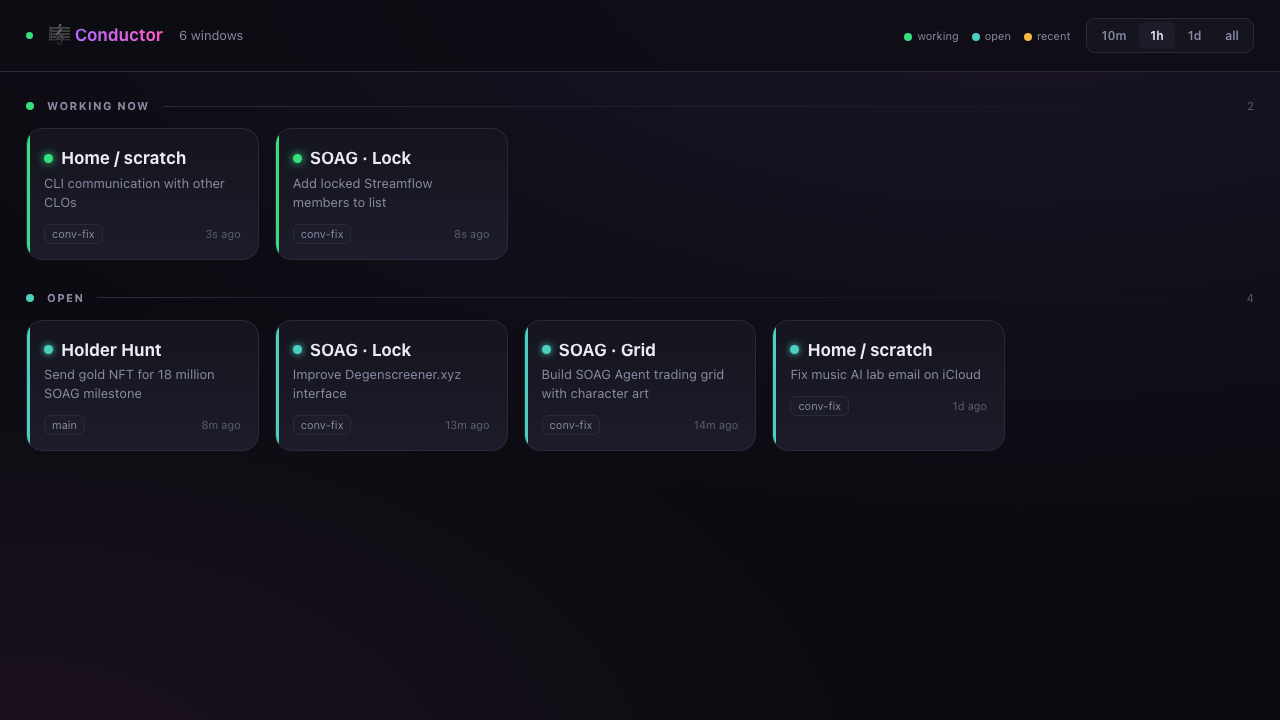
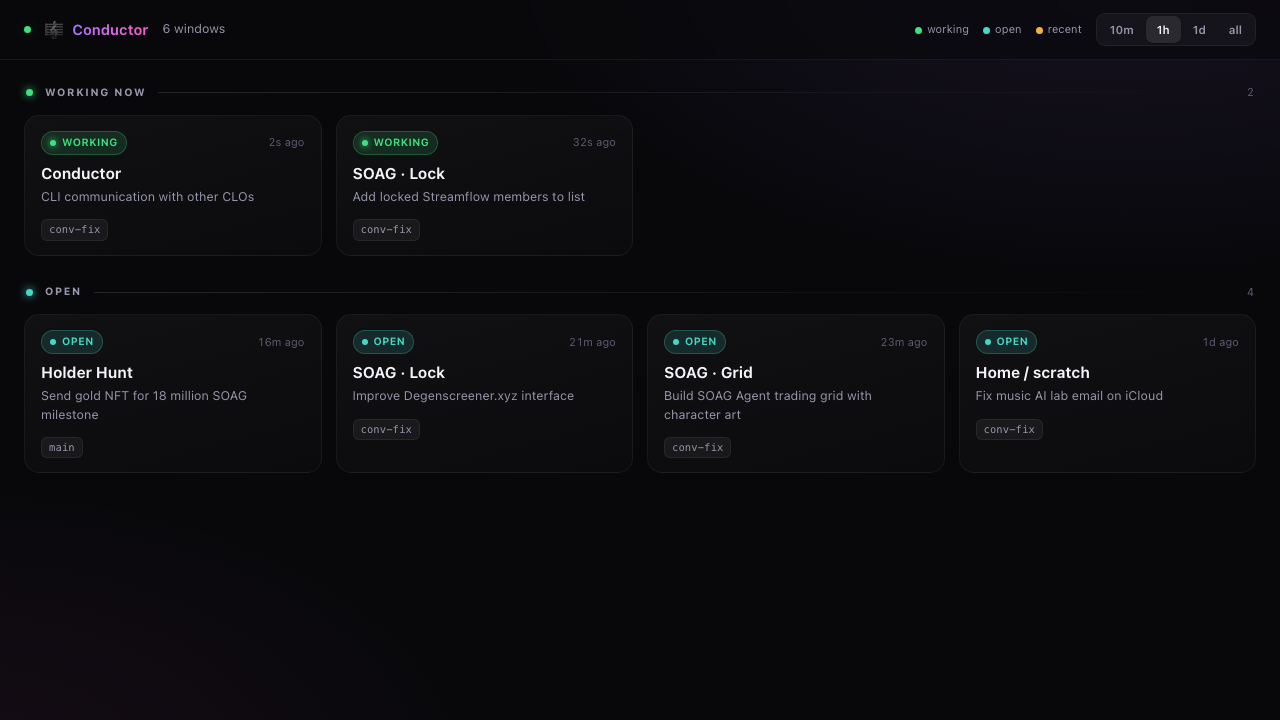
cockpit: sleek redesign — status pills, hairline borders, mono accents
Modern dark dashboard pass (Linear/Vercel-grade): per-status pills replace bare dots,
monospace branch chips + session ids, gradient hover ring tinted by status, glowing
section markers, refined type scale & spacing, polished modal timeline. Flicker-free
refresh (repaint only when data changes). Updated README screenshot.

diff --git a/server.js b/server.js
@@ -3,7 +3,7 @@
 
 // Conductor daemon — serves a live, glanceable web cockpit of your Claude Code sessions.
 // Read-only. Zero dependencies (node:http only). The page polls /api/sessions and
-// re-renders cards; click a card for full detail.
+// re-renders only when the data changes; click a card for full detail.
 //
 //   conductor-cockpit                 start on :7591, open browser, 60-min window
 //   conductor-cockpit --port 8080
@@ -28,99 +28,121 @@ const PAGE = /* html */ `<!doctype html>
 <head>
 <meta charset="utf-8">
 <meta name="viewport" content="width=device-width, initial-scale=1">
-<title>🎼 Conductor</title>
+<title>Conductor</title>
 <style>
   :root {
-    --bg:#0b0b11; --panel:#15151f; --panel2:#1c1c2a; --line:#2a2a3d;
-    --txt:#ececf4; --mut:#8a8aa3; --dim:#5d5d75;
-    --active:#36e07f; --open:#4bd0c0; --recent:#f5b942; --idle:#6a6a85;
-    --accent:#b06cff; --accent2:#ff5cc8;
+    --bg:#08080b; --bg2:#0b0b10;
+    --line:rgba(255,255,255,.06); --line2:rgba(255,255,255,.12);
+    --txt:#f3f3f8; --mut:#9696ab; --dim:#5c5c72;
+    --active:#3ee07f; --open:#46d8c6; --recent:#f5b13f; --idle:#6a6a85;
+    --accent:#a974ff; --accent2:#ff5cc8;
+    --mono:ui-monospace,"SF Mono","JetBrains Mono",Menlo,monospace;
+    --sans:ui-sans-serif,-apple-system,"SF Pro Text",Inter,system-ui,sans-serif;
   }
   * { box-sizing:border-box; }
+  html { color-scheme:dark; }
   body {
     margin:0; background:var(--bg); color:var(--txt);
-    font:14px/1.45 ui-sans-serif,-apple-system,"SF Pro Text",Inter,system-ui,sans-serif;
-    -webkit-font-smoothing:antialiased;
-    background-image:radial-gradient(1200px 600px at 80% -10%, rgba(176,108,255,.10), transparent),
-                     radial-gradient(900px 500px at 0% 110%, rgba(255,92,200,.07), transparent);
+    font:13.5px/1.5 var(--sans); -webkit-font-smoothing:antialiased; letter-spacing:.1px;
     min-height:100vh;
+    background-image:
+      radial-gradient(900px 480px at 88% -8%, rgba(169,116,255,.10), transparent 70%),
+      radial-gradient(760px 420px at -4% 108%, rgba(255,92,200,.06), transparent 70%);
   }
+  ::selection { background:rgba(169,116,255,.3); }
+  /* scrollbar */
+  ::-webkit-scrollbar { width:10px; height:10px; }
+  ::-webkit-scrollbar-thumb { background:#23232f; border-radius:6px; border:2px solid var(--bg); }
+
   header {
-    display:flex; align-items:center; gap:16px; padding:18px 26px; position:sticky; top:0;
-    backdrop-filter:blur(10px); background:rgba(11,11,17,.7); border-bottom:1px solid var(--line); z-index:10;
+    display:flex; align-items:center; gap:14px; padding:13px 24px; position:sticky; top:0; z-index:20;
+    background:rgba(8,8,11,.72); backdrop-filter:blur(14px) saturate(1.2);
+    border-bottom:1px solid var(--line);
   }
-  h1 { font-size:17px; margin:0; letter-spacing:.3px; font-weight:650; }
-  h1 .g { background:linear-gradient(90deg,var(--accent),var(--accent2)); -webkit-background-clip:text; background-clip:text; color:transparent; }
-  .count { color:var(--mut); font-size:13px; }
+  .brand { display:flex; align-items:center; gap:9px; font-size:14.5px; font-weight:640; letter-spacing:.2px; }
+  .brand .mk { background:linear-gradient(92deg,var(--accent),var(--accent2)); -webkit-background-clip:text; background-clip:text; color:transparent; }
+  .live { width:7px; height:7px; border-radius:50%; background:var(--active); box-shadow:0 0 0 0 var(--active); animation:pulse 2.4s infinite; }
+  @keyframes pulse { 0%{box-shadow:0 0 0 0 rgba(62,224,127,.45);} 70%{box-shadow:0 0 0 8px rgba(62,224,127,0);} 100%{box-shadow:0 0 0 0 rgba(62,224,127,0);} }
+  .count { color:var(--mut); font-size:12.5px; font-variant-numeric:tabular-nums; }
   .spacer { flex:1; }
-  .seg { display:flex; gap:2px; background:var(--panel); border:1px solid var(--line); border-radius:9px; padding:3px; }
-  .seg button {
-    border:0; background:transparent; color:var(--mut); font:inherit; font-size:12px; font-weight:600;
-    padding:5px 11px; border-radius:6px; cursor:pointer;
-  }
-  .seg button.on { background:var(--panel2); color:var(--txt); }
-  .pulse { width:7px; height:7px; border-radius:50%; background:var(--active); box-shadow:0 0 0 0 var(--active); animation:p 2s infinite; }
-  @keyframes p { 0%{box-shadow:0 0 0 0 rgba(54,224,127,.5);} 70%{box-shadow:0 0 0 7px rgba(54,224,127,0);} 100%{box-shadow:0 0 0 0 rgba(54,224,127,0);} }
-  main { padding:20px 26px 60px; }
-  .section-head { display:flex; align-items:center; gap:13px; margin:30px 0 14px; }
-  .section-head:first-child { margin-top:6px; }
-  .section-head .sdot { width:8px; height:8px; border-radius:50%; flex:none; }
-  .section-head .stitle { font-size:11px; font-weight:750; letter-spacing:1.4px; text-transform:uppercase; color:var(--mut); white-space:nowrap; }
-  .section-head .rule { flex:1; height:1px; background:linear-gradient(90deg,var(--line),transparent); }
-  .section-head .scount { font-size:11px; color:var(--dim); flex:none; }
-  .grid { display:grid; grid-template-columns:repeat(auto-fill,minmax(230px,1fr)); gap:16px; }
+  .legend { display:flex; gap:14px; font-size:11px; color:var(--mut); }
+  .legend i { width:7px; height:7px; border-radius:50%; display:inline-block; margin-right:5px; vertical-align:middle; }
+  .seg { display:flex; gap:1px; background:rgba(255,255,255,.04); border:1px solid var(--line); border-radius:9px; padding:2px; }
+  .seg button { border:0; background:transparent; color:var(--mut); font:inherit; font-size:11.5px; font-weight:600; padding:5px 11px; border-radius:7px; cursor:pointer; transition:.12s; }
+  .seg button:hover { color:var(--txt); }
+  .seg button.on { background:rgba(255,255,255,.09); color:var(--txt); box-shadow:0 1px 2px rgba(0,0,0,.3); }
+
+  main { padding:14px 24px 64px; max-width:1500px; margin:0 auto; }
+  .section-head { display:flex; align-items:center; gap:12px; margin:28px 2px 14px; }
+  .section-head:first-child { margin-top:10px; }
+  .section-head .sdot { width:7px; height:7px; border-radius:50%; flex:none; box-shadow:0 0 8px currentColor; }
+  .section-head .stitle { font-size:10.5px; font-weight:750; letter-spacing:1.6px; text-transform:uppercase; color:var(--mut); white-space:nowrap; }
+  .section-head .rule { flex:1; height:1px; background:linear-gradient(90deg,var(--line2),transparent); }
+  .section-head .scount { font-size:11px; color:var(--dim); font-variant-numeric:tabular-nums; flex:none; }
+
+  .grid { display:grid; grid-template-columns:repeat(auto-fill,minmax(248px,1fr)); gap:14px; }
   .card {
-    background:linear-gradient(180deg,var(--panel),var(--panel2)); border:1px solid var(--line);
-    border-radius:16px; padding:17px 17px 15px; cursor:pointer; position:relative; overflow:hidden;
-    transition:transform .12s ease, border-color .12s ease, box-shadow .12s ease;
+    --c:var(--mut);
+    background:linear-gradient(165deg,rgba(255,255,255,.035),rgba(255,255,255,.012));
+    border:1px solid var(--line); border-radius:15px; padding:15px 16px 14px; cursor:pointer;
+    position:relative; isolation:isolate; transition:transform .14s ease, border-color .14s ease, box-shadow .14s ease;
   }
-  .card:hover { transform:translateY(-3px); border-color:#3a3a55; box-shadow:0 12px 30px rgba(0,0,0,.45); }
-  .card .bar { position:absolute; left:0; top:0; bottom:0; width:3px; }
-  .card.active .bar { background:var(--active); }
-  .card.open   .bar { background:var(--open); }
-  .card.recent .bar { background:var(--recent); }
-  .card.idle  .bar { background:var(--idle); opacity:.6; }
-  .card.idle { opacity:.72; }
-  .row1 { display:flex; align-items:center; gap:8px; margin-bottom:3px; }
-  .dot { width:9px; height:9px; border-radius:50%; flex:none; }
-  .active .dot { background:var(--active); box-shadow:0 0 8px var(--active); }
-  .open   .dot { background:var(--open); box-shadow:0 0 7px var(--open); }
-  .recent .dot { background:var(--recent); }
-  .idle  .dot { background:var(--idle); }
-  .legend { display:flex; gap:13px; font-size:11px; color:var(--mut); align-items:center; }
-  .legend i { display:inline-block; width:8px; height:8px; border-radius:50%; margin-right:5px; vertical-align:middle; }
-  .label { font-size:17px; font-weight:680; letter-spacing:.2px; white-space:nowrap; overflow:hidden; text-overflow:ellipsis; }
-  .task { color:var(--mut); font-size:13px; min-height:18px; margin:2px 0 12px; display:-webkit-box; -webkit-line-clamp:2; -webkit-box-orient:vertical; overflow:hidden; }
-  .meta { display:flex; align-items:center; gap:8px; font-size:11px; color:var(--dim); }
-  .chip { background:#23233444; border:1px solid var(--line); border-radius:6px; padding:1px 7px; color:var(--mut); }
-  .time { margin-left:auto; }
-  .empty { color:var(--mut); text-align:center; padding:80px 0; }
+  .card::before {
+    content:''; position:absolute; inset:0; border-radius:inherit; padding:1px; pointer-events:none; opacity:0; transition:opacity .14s;
+    background:linear-gradient(165deg,var(--c),transparent 55%);
+    -webkit-mask:linear-gradient(#000 0 0) content-box,linear-gradient(#000 0 0);
+    -webkit-mask-composite:xor; mask-composite:exclude;
+  }
+  .card:hover { transform:translateY(-2px); box-shadow:0 14px 34px rgba(0,0,0,.5), 0 0 0 1px var(--line2); }
+  .card:hover::before { opacity:.55; }
+  .card.idle { opacity:.66; }
+  .card.idle:hover { opacity:1; }
+
+  .ctop { display:flex; align-items:center; gap:8px; margin-bottom:9px; }
+  .pill { display:inline-flex; align-items:center; gap:6px; font-size:10.5px; font-weight:650; letter-spacing:.4px; text-transform:uppercase; color:var(--c); background:color-mix(in srgb,var(--c) 13%,transparent); border:1px solid color-mix(in srgb,var(--c) 26%,transparent); padding:3px 8px; border-radius:999px; }
+  .pill i { width:6px; height:6px; border-radius:50%; background:var(--c); }
+  .pill.active i { box-shadow:0 0 7px var(--c); }
+  .time { margin-left:auto; font-size:11px; color:var(--dim); font-variant-numeric:tabular-nums; white-space:nowrap; }
+
+  .label { font-size:15.5px; font-weight:660; letter-spacing:.1px; line-height:1.25; white-space:nowrap; overflow:hidden; text-overflow:ellipsis; }
+  .task { color:var(--mut); font-size:12.5px; line-height:1.45; margin:5px 0 13px; min-height:18px; display:-webkit-box; -webkit-line-clamp:2; -webkit-box-orient:vertical; overflow:hidden; }
+  .cfoot { display:flex; align-items:center; gap:7px; }
+  .chip { font-family:var(--mono); font-size:10.5px; color:var(--mut); background:rgba(255,255,255,.05); border:1px solid var(--line); border-radius:6px; padding:2px 7px; }
+
+  .card.active { --c:var(--active); } .card.open { --c:var(--open); }
+  .card.recent { --c:var(--recent); } .card.idle { --c:var(--idle); }
+
+  .empty { color:var(--mut); text-align:center; padding:90px 0; font-size:13px; }
+
   /* modal */
-  .scrim { position:fixed; inset:0; background:rgba(5,5,9,.66); backdrop-filter:blur(3px); display:none; align-items:center; justify-content:center; z-index:50; }
-  .scrim.show { display:flex; }
-  .modal { width:min(640px,92vw); max-height:84vh; overflow:auto; background:var(--panel); border:1px solid var(--line); border-radius:18px; padding:24px; }
-  .modal h2 { margin:0 0 2px; font-size:21px; }
-  .modal .sub { color:var(--mut); font-size:13px; margin-bottom:18px; }
-  .kv { margin:14px 0; }
-  .kv .k { color:var(--dim); font-size:11px; text-transform:uppercase; letter-spacing:.6px; margin-bottom:4px; }
-  .kv .v { color:var(--txt); font-size:14px; word-break:break-word; }
-  .timeline { border-left:2px solid var(--line); margin-left:4px; padding-left:16px; }
-  .ev { margin:9px 0; font-size:13px; color:var(--mut); }
-  .ev b { color:var(--txt); font-weight:600; }
-  .close { float:right; cursor:pointer; color:var(--mut); font-size:20px; line-height:1; border:0; background:0; }
-  .foot { color:var(--dim); font-size:11px; margin-top:22px; }
+  .scrim { position:fixed; inset:0; background:rgba(4,4,7,.72); backdrop-filter:blur(5px); display:none; align-items:center; justify-content:center; z-index:60; padding:24px; }
+  .scrim.show { display:flex; animation:fade .14s ease; }
+  @keyframes fade { from{opacity:0;} to{opacity:1;} }
+  .modal { width:min(660px,100%); max-height:86vh; overflow:auto; background:linear-gradient(180deg,#13131b,#0e0e14); border:1px solid var(--line2); border-radius:20px; padding:26px 28px; box-shadow:0 30px 80px rgba(0,0,0,.6); }
+  .modal h2 { margin:0 0 3px; font-size:22px; font-weight:680; letter-spacing:.2px; }
+  .modal .sub { color:var(--dim); font-size:12px; font-family:var(--mono); margin-bottom:20px; word-break:break-all; }
+  .kv { margin:15px 0; }
+  .kv .k { color:var(--dim); font-size:10px; text-transform:uppercase; letter-spacing:1px; margin-bottom:5px; font-weight:700; }
+  .kv .v { color:var(--txt); font-size:13.5px; word-break:break-word; line-height:1.5; }
+  .timeline { display:flex; flex-direction:column; gap:9px; margin-top:4px; }
+  .ev { display:flex; gap:9px; font-size:12.5px; color:var(--mut); line-height:1.4; }
+  .ev .who { font-family:var(--mono); font-size:10px; color:var(--dim); text-transform:uppercase; letter-spacing:.5px; flex:none; width:46px; padding-top:1px; }
+  .ev .what { word-break:break-word; }
+  .close { float:right; cursor:pointer; color:var(--mut); font-size:22px; line-height:1; border:0; background:0; transition:color .12s; }
+  .close:hover { color:var(--txt); }
+  .foot { color:var(--dim); font-size:11px; font-family:var(--mono); margin-top:24px; padding-top:16px; border-top:1px solid var(--line); }
 </style>
 </head>
 <body>
 <header>
-  <span class="pulse"></span>
-  <h1>🎼 <span class="g">Conductor</span></h1>
+  <span class="live"></span>
+  <span class="brand">🎼 <span class="mk">Conductor</span></span>
   <span class="count" id="count"></span>
   <span class="spacer"></span>
   <div class="legend">
-    <span><i style="background:#36e07f"></i>working</span>
-    <span><i style="background:#4bd0c0"></i>open</span>
-    <span><i style="background:#f5b942"></i>recent</span>
+    <span><i style="background:#3ee07f"></i>working</span>
+    <span><i style="background:#46d8c6"></i>open</span>
+    <span><i style="background:#f5b13f"></i>recent</span>
   </div>
   <div class="seg" id="seg">
     <button data-m="10">10m</button>
@@ -137,34 +159,39 @@ const PAGE = /* html */ `<!doctype html>
 let WINDOW = '60';
 let DATA = [];
 let openId = null;
+let lastHash = '';
 
 const esc = (s)=> (s==null?'':String(s)).replace(/[&<>"]/g,c=>({'&':'&amp;','<':'&lt;','>':'&gt;','"':'&quot;'}[c]));
+const STATUS_LABEL = { active:'working', open:'open', recent:'recent', idle:'idle' };
+
+const SECTIONS = [
+  { k:'active', t:'Working now',     c:'#3ee07f' },
+  { k:'open',   t:'Open',            c:'#46d8c6' },
+  { k:'recent', t:'Recently active', c:'#f5b13f' },
+  { k:'idle',   t:'Idle',            c:'#6a6a85' },
+];
 
 async function load() {
   const q = WINDOW==='all' ? 'all=1' : 'minutes='+WINDOW;
   try {
     const r = await fetch('/api/sessions?'+q);
     const j = await r.json();
-    DATA = j.sessions; render();
+    const hash = WINDOW + '|' + JSON.stringify(j.sessions.map(s=>[s.sessionId,s.status,s.lastActiveRel,s.lastAction,s.label]));
+    DATA = j.sessions;
+    if (hash !== lastHash) { lastHash = hash; render(); }   // flicker-free: only repaint on change
+    else if (openId) renderModal();
   } catch(e) { /* keep last render */ }
 }
 
-const SECTIONS = [
-  { k:'active', t:'Working now',     c:'#36e07f' },
-  { k:'open',   t:'Open',            c:'#4bd0c0' },
-  { k:'recent', t:'Recently active', c:'#f5b942' },
-  { k:'idle',   t:'Idle',            c:'#6a6a85' },
-];
-
 function cardHTML(s) {
   return \`<div class="card \${s.status}" onclick="openCard('\${s.sessionId}')">
-      <div class="bar"></div>
-      <div class="row1"><span class="dot"></span><span class="label">\${esc(s.label)}</span></div>
-      <div class="task">\${esc(s.task || s.intent || '—')}</div>
-      <div class="meta">
-        \${s.gitBranch ? '<span class="chip">'+esc(s.gitBranch)+'</span>' : ''}
+      <div class="ctop">
+        <span class="pill \${s.status}"><i></i>\${STATUS_LABEL[s.status]||s.status}</span>
         <span class="time">\${esc(s.lastActiveRel)}</span>
       </div>
+      <div class="label">\${esc(s.label)}</div>
+      <div class="task">\${esc(s.task || s.intent || '—')}</div>
+      <div class="cfoot">\${s.gitBranch ? '<span class="chip">'+esc(s.gitBranch)+'</span>' : ''}</div>
     </div>\`;
 }
 
@@ -174,7 +201,7 @@ function render() {
   document.getElementById('count').textContent = DATA.length ? DATA.length+' window'+(DATA.length>1?'s':'') : '';
   if (!DATA.length) {
     board.innerHTML=''; empty.style.display='block';
-    empty.textContent = 'No sessions in this window. Try a wider range.';
+    empty.textContent = 'No sessions in this window. Try a wider range →';
     return;
   }
   empty.style.display='none';
@@ -182,13 +209,13 @@ function render() {
   for (const sec of SECTIONS) {
     const items = DATA.filter(s => s.status === sec.k);
     if (!items.length) continue;
-    html += \`<div class="section-head"><span class="sdot" style="background:\${sec.c}"></span>\`
+    html += \`<div class="section-head"><span class="sdot" style="color:\${sec.c};background:\${sec.c}"></span>\`
          +  \`<span class="stitle">\${sec.t}</span><span class="rule"></span>\`
          +  \`<span class="scount">\${items.length}</span></div>\`;
     html += '<div class="grid">' + items.map(cardHTML).join('') + '</div>';
   }
   board.innerHTML = html;
-  if (openId) renderModal(); // keep detail fresh while open
+  if (openId) renderModal();
 }
 
 function openCard(id){ openId=id; renderModal(); document.getElementById('scrim').classList.add('show'); }
@@ -197,24 +224,23 @@ function closeModal(){ openId=null; document.getElementById('scrim').classList.r
 function renderModal(){
   const s = DATA.find(x=>x.sessionId===openId);
   if(!s){ closeModal(); return; }
-  const evs = (s.recent||[]).slice().reverse().map(e=>{
-    const who = e.role==='assistant' ? 'Claude' : 'you';
-    return '<div class="ev"><b>'+who+'</b> · '+esc(e.summary)+'</div>';
-  }).join('') || '<div class="ev">no recent events</div>';
+  const evs = (s.recent||[]).slice().reverse().map(e=>
+    '<div class="ev"><span class="who">'+(e.role==='assistant'?'Claude':'you')+'</span><span class="what">'+esc(e.summary)+'</span></div>'
+  ).join('') || '<div class="ev"><span class="what">no recent events</span></div>';
   document.getElementById('modal').innerHTML = \`
     <button class="close" onclick="closeModal()">×</button>
     <h2>\${esc(s.label)}</h2>
-    <div class="sub">\${esc(s.cwd||'')} \${s.gitBranch?' · '+esc(s.gitBranch):''} · \${esc(s.lastActiveRel)} · \${esc(s.status)}</div>
+    <div class="sub">\${esc(s.cwd||'')}\${s.gitBranch?'  ·  '+esc(s.gitBranch):''}  ·  \${esc(s.lastActiveRel)}  ·  \${esc(s.status)}</div>
     <div class="kv"><div class="k">Goal</div><div class="v">\${esc(s.intent||s.task||'—')}</div></div>
     <div class="kv"><div class="k">Doing now</div><div class="v">\${esc(s.lastAction||'—')}</div></div>
-    <div class="kv"><div class="k">Recent</div><div class="timeline">\${evs}</div></div>
-    <div class="foot">session \${esc(s.shortId)} · read-only · this view never touches the window</div>\`;
+    <div class="kv"><div class="k">Recent activity</div><div class="timeline">\${evs}</div></div>
+    <div class="foot">session \${esc(s.shortId)} · read-only — this view never touches the window</div>\`;
 }
 
 document.getElementById('seg').addEventListener('click', e=>{
   const b=e.target.closest('button'); if(!b) return;
   document.querySelectorAll('#seg button').forEach(x=>x.classList.remove('on'));
-  b.classList.add('on'); WINDOW=b.dataset.m; load();
+  b.classList.add('on'); WINDOW=b.dataset.m; lastHash=''; load();
 });
 document.getElementById('scrim').addEventListener('click', e=>{ if(e.target.id==='scrim') closeModal(); });
 document.addEventListener('keydown', e=>{ if(e.key==='Escape') closeModal(); });